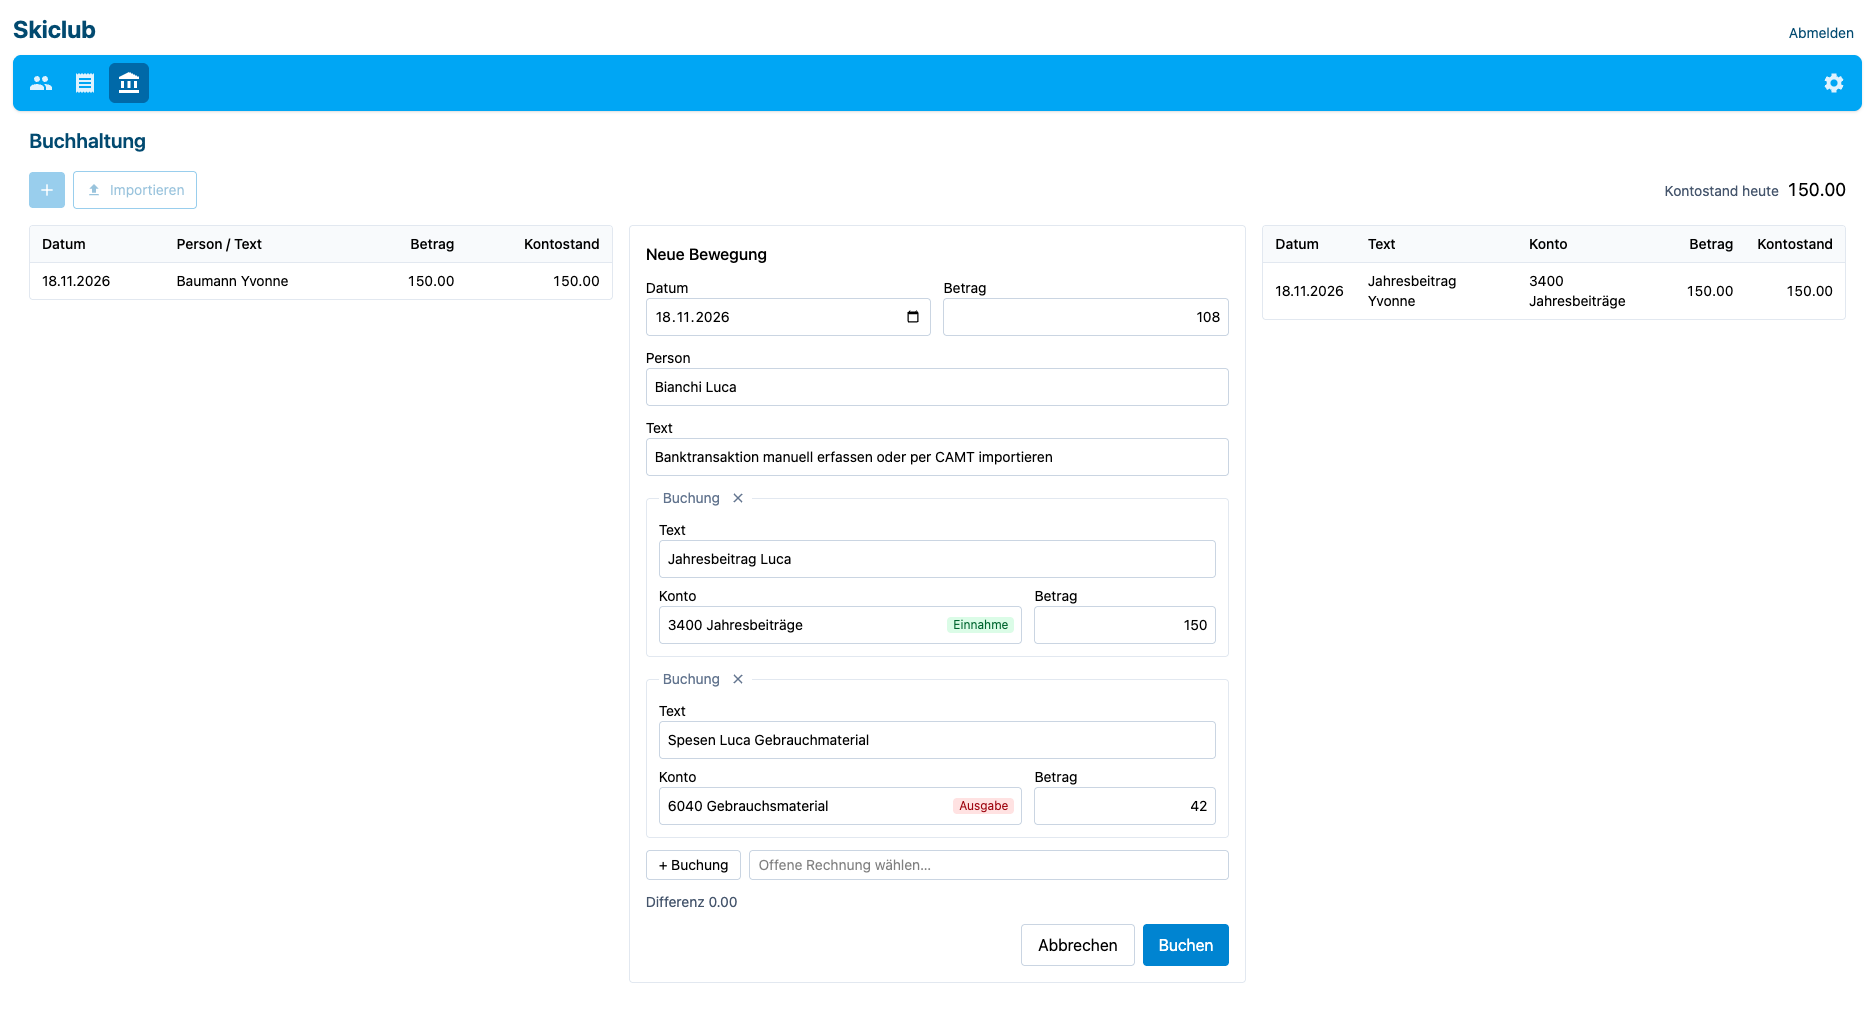
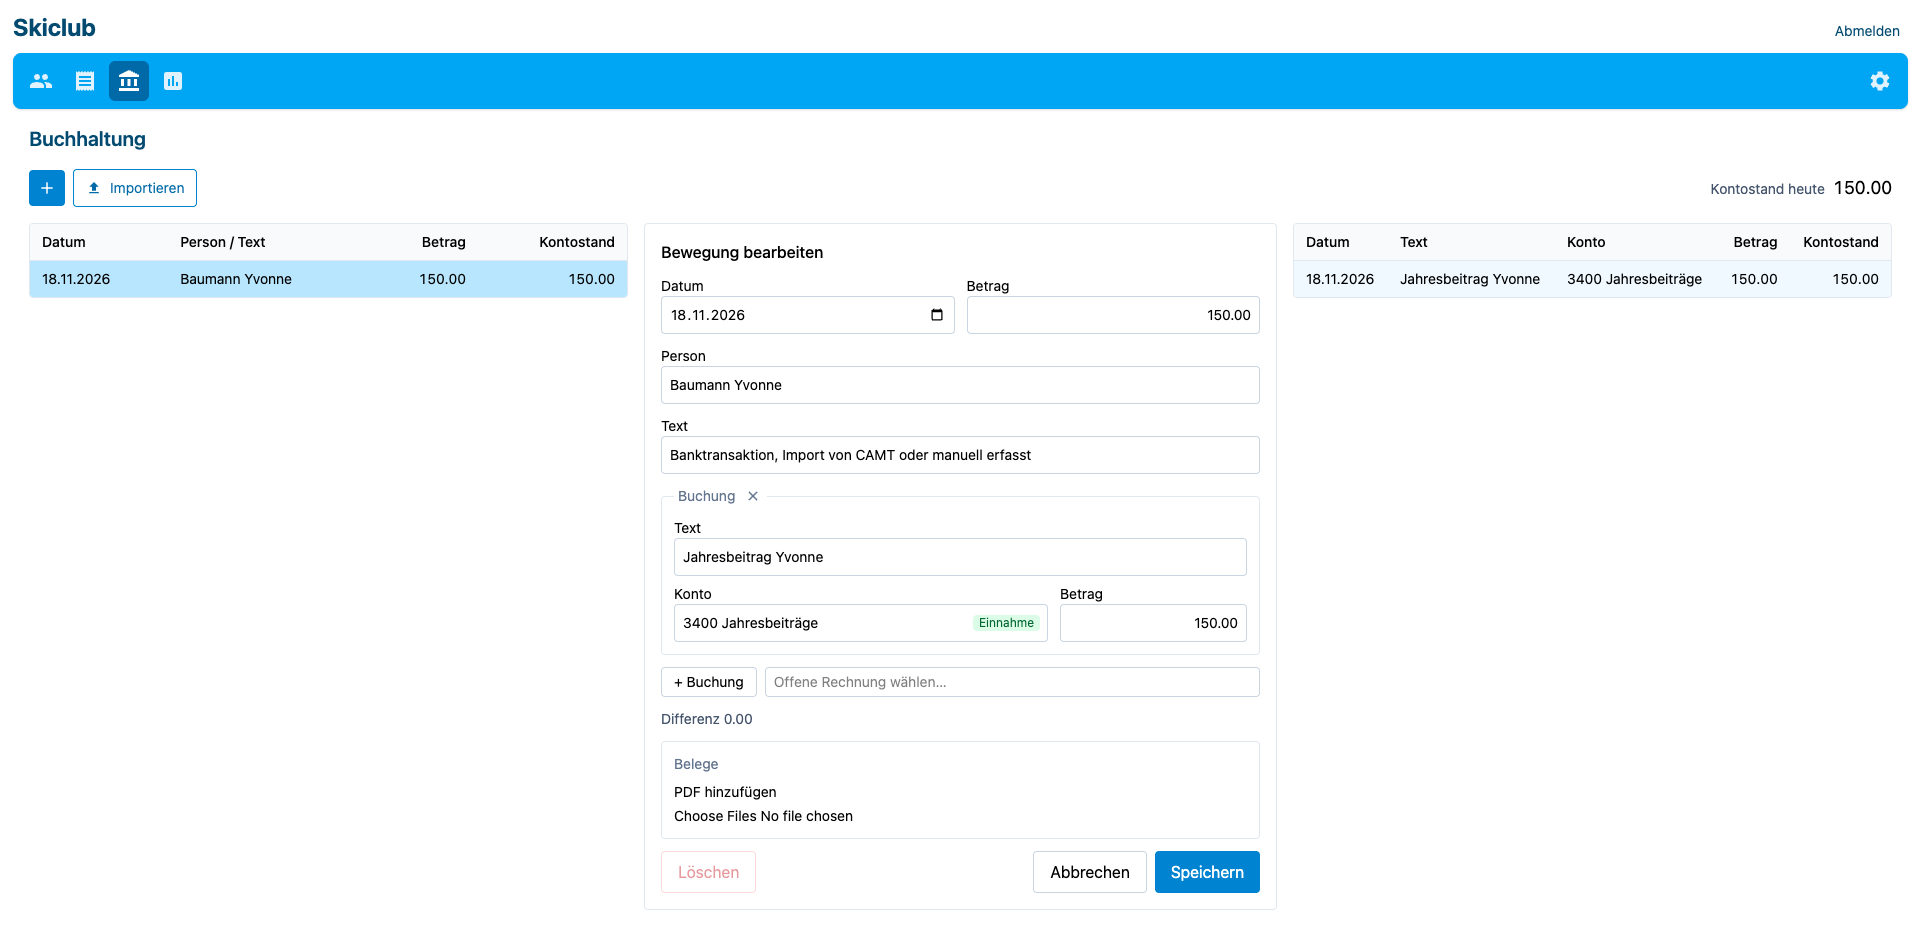
updated screenshots

diff --git a/README.md b/README.md
@@ -34,6 +34,8 @@
 
 ![accounting](./docs/manual/images/accounting.png)
 
+![reporting](./docs/manual/images/reporting.png)
+
 ## Getting started
 
 The easiest way to get started is to deploy to Railway
